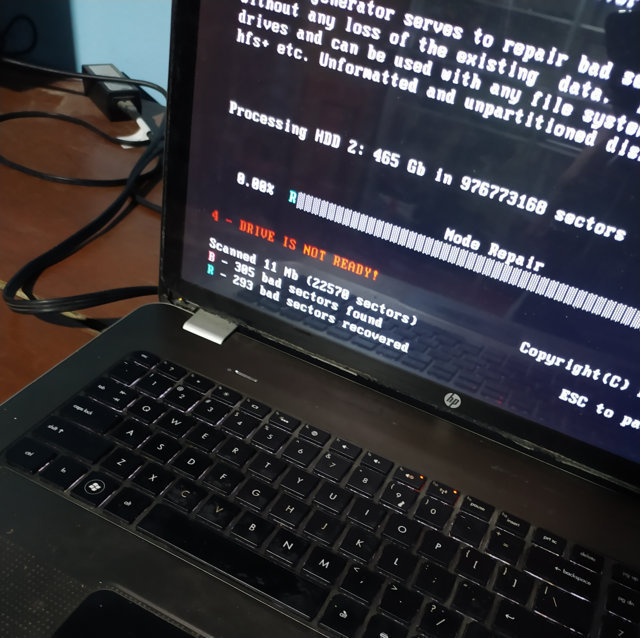
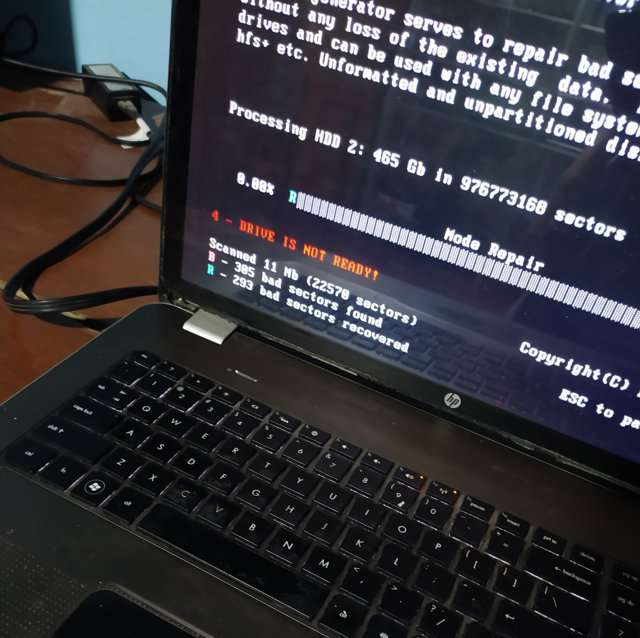
ADD: refactor images -> passed by Squoosh for the web

diff --git a/pages/index.js b/pages/index.js
@@ -316,7 +316,7 @@ export default function Home() {
 
         <section
           className="relative bg-no-repeat bg-fixed bg-cover py-20"
-          style={{ backgroundImage: "url(/img/bg-testimonials.png)" }}
+          style={{ backgroundImage: "url(/img/bg-testimonials.jpg)" }}
         >
           <span
             className="block absolute top-0 left-0 h-full w-full opacity-75"
@@ -405,14 +405,14 @@ export default function Home() {
             <div className="w-1/5 p-3 block overflow-hidden h-64">
               <img
                 className="object-cover w-full h-full"
-                src="/img/our-jobs/job-1.jpeg"
+                src="/img/our-jobs/job-1.jpg"
                 alt="Reparación #1"
               />
             </div>
             <div className="w-1/5 p-3 block overflow-hidden h-64">
               <img
                 className="object-cover w-full h-full"
-                src="/img/our-jobs/job-2.jpeg"
+                src="/img/our-jobs/job-2.jpg"
                 alt="Reparación #2"
               />
             </div>

diff --git a/components/homepage/service-slide-virus.js b/components/homepage/service-slide-virus.js
@@ -36,7 +36,7 @@ export default function ServiceSlideVirus(){
         <img className="object-contain w-full h-full" src="/img/service/virus/virus_1.jpg" alt={`image 1`} title={`image 1`} />
       </div>
       <div className="h-72 w-full overflow-hidden bg-white md:rounded-r-md rounded-b-md">
-        <img className="object-contain w-full h-full" src="/img/service/virus/virus_2.jpeg" alt={`image 2`} title={`image 2`} />
+        <img className="object-contain w-full h-full" src="/img/service/virus/virus_2.jpg" alt={`image 2`} title={`image 2`} />
       </div>
       <div className="h-72 w-full overflow-hidden bg-white md:rounded-r-md rounded-b-md">
         <img className="object-contain w-full h-full" src="/img/service/virus/virus_3.jpg" alt={`image 3`} title={`image 3`} />
